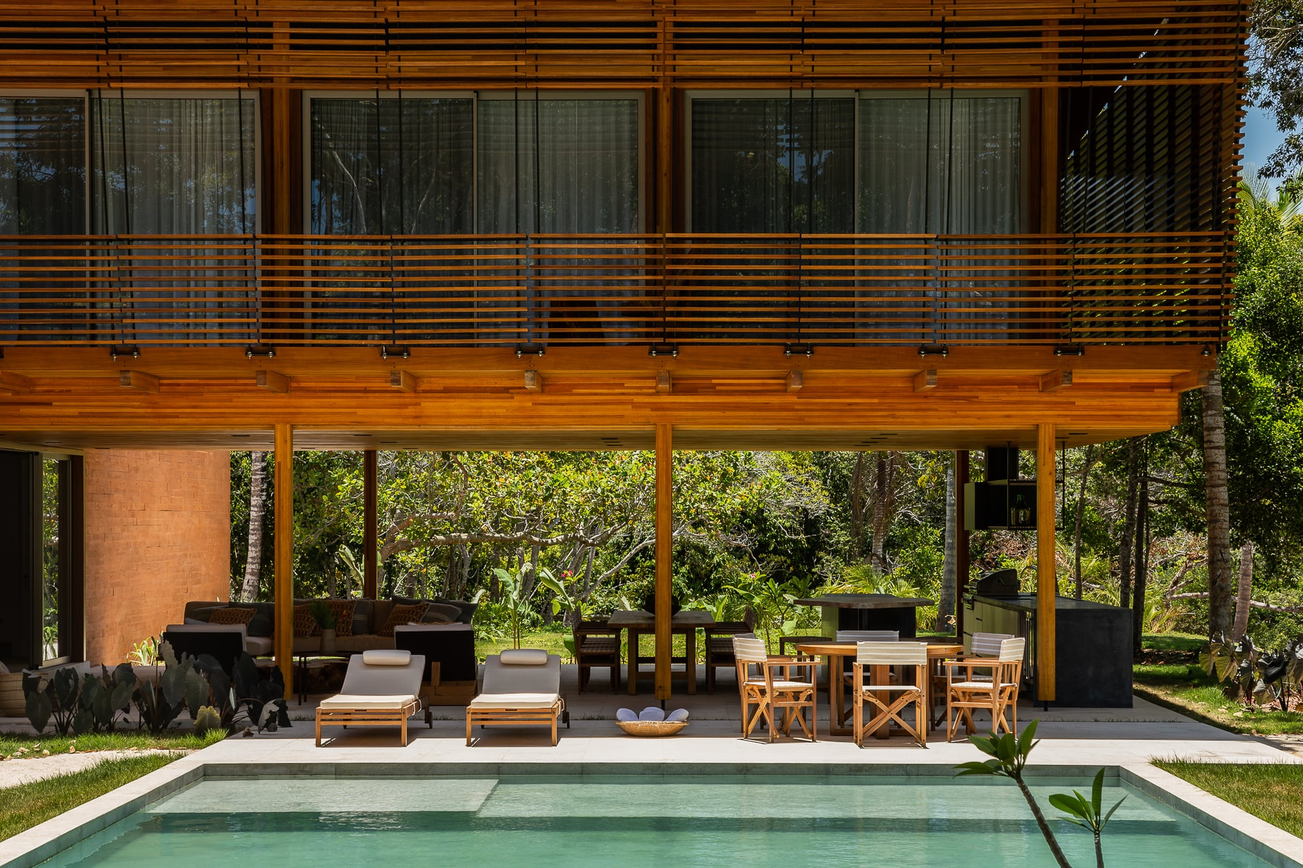
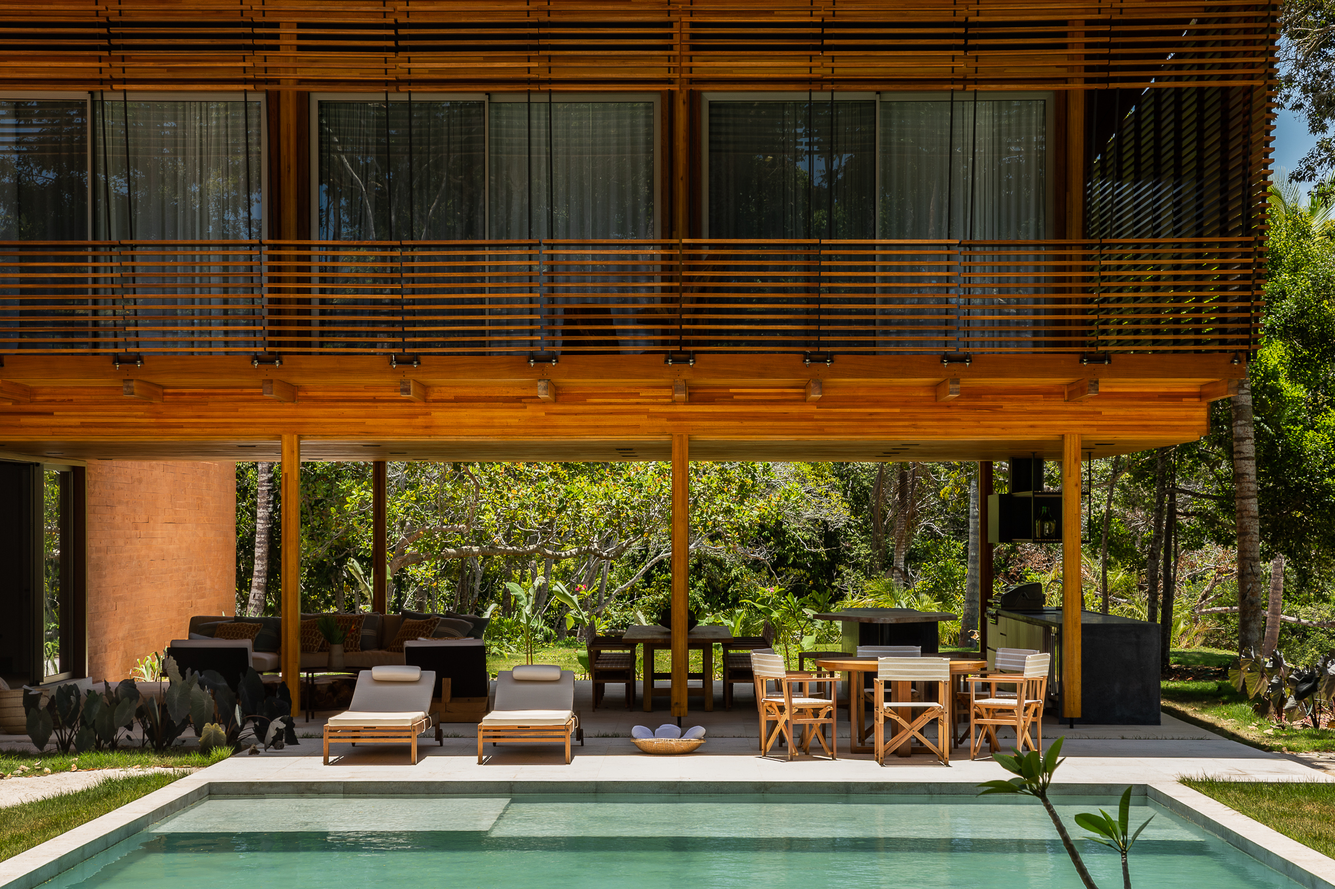
fix(fasano-trancoso): qualidade das fotos full-screen
Recopia fontes originais hi-q (Apresentacao 534KB->1741KB base limpa; gastro 2200->2560px; casa-piscina 2000->2048px). quality 90->95 em todas as Image + next.config qualities inclui 95. Mar/Reserva continuam no teto de fonte 1500px (acervo nao tem maior) — sinalizado ao Enzo.

diff --git a/components/demos/fasano-trancoso/sections/Acomodacoes.tsx b/components/demos/fasano-trancoso/sections/Acomodacoes.tsx
@@ -76,7 +76,7 @@ export function Acomodacoes() {
               alt={a.casaPiscina.alt}
               fill
               loading="eager"
-              quality={90}
+              quality={95}
               sizes="(min-width: 1024px) 1240px, 100vw"
               className="object-cover object-center transition-transform duration-[900ms] ease-out group-hover:scale-[1.03]"
             />
@@ -92,7 +92,7 @@ export function Acomodacoes() {
                 alt={a.bangalo.alt}
                 fill
                 loading="eager"
-                quality={90}
+                quality={95}
                 sizes="(min-width: 1024px) 500px, 100vw"
                 className="object-cover object-center transition-transform duration-[900ms] ease-out group-hover:scale-[1.04]"
               />
@@ -105,7 +105,7 @@ export function Acomodacoes() {
                 alt={a.sala.alt}
                 fill
                 loading="eager"
-                quality={90}
+                quality={95}
                 sizes="(min-width: 1024px) 716px, 100vw"
                 className="object-cover object-center transition-transform duration-[900ms] ease-out group-hover:scale-[1.04]"
               />

diff --git a/components/demos/fasano-trancoso/sections/MarPiscinas.tsx b/components/demos/fasano-trancoso/sections/MarPiscinas.tsx
@@ -20,7 +20,7 @@ export function MarPiscinas() {
           alt={m.photoBig.alt}
           fill
           loading="eager"
-          quality={90}
+          quality={95}
           sizes="100vw"
           className="object-cover object-center"
         />
@@ -102,7 +102,7 @@ export function MarPiscinas() {
               alt={p.alt}
               fill
               loading="eager"
-              quality={90}
+              quality={95}
               sizes="50vw"
               className="object-cover object-center transition-transform duration-[900ms] ease-out group-hover:scale-105"
             />

diff --git a/next.config.ts b/next.config.ts
@@ -4,7 +4,7 @@ const nextConfig: NextConfig = {
   images: {
     // Next 16 introduziu allowlist `qualities`. Default só permite [75].
     // Sem isto, qualquer quality={100} na <Image> é silenciosamente reduzido.
-    qualities: [75, 90, 100],
+    qualities: [75, 90, 95, 100],
     // AVIF: ~50% menor que JPEG na mesma qualidade visual. WebP fallback.
     // Next escolhe automaticamente o melhor formato suportado pelo browser.
     formats: ["image/avif", "image/webp"],

diff --git a/components/demos/fasano-trancoso/sections/Experiencias.tsx b/components/demos/fasano-trancoso/sections/Experiencias.tsx
@@ -73,7 +73,7 @@ export function Experiencias() {
                   alt={c.name}
                   fill
                   loading="eager"
-                  quality={90}
+                  quality={95}
                   sizes="(min-width: 1024px) 289px, 50vw"
                   className="object-cover object-center transition-transform duration-[900ms] ease-out group-hover:scale-[1.06]"
                 />

diff --git a/components/demos/fasano-trancoso/sections/Gastronomia.tsx b/components/demos/fasano-trancoso/sections/Gastronomia.tsx
@@ -75,7 +75,7 @@ export function Gastronomia() {
                 alt={p.alt}
                 fill
                 loading="eager"
-                quality={90}
+                quality={95}
                 sizes="100vw"
                 className="object-cover object-center transition-transform duration-[1100ms] ease-out group-hover:scale-[1.03]"
               />

diff --git a/components/demos/fasano-trancoso/sections/Reserva.tsx b/components/demos/fasano-trancoso/sections/Reserva.tsx
@@ -31,7 +31,7 @@ export function Reserva() {
           alt={r.photo.alt}
           fill
           loading="eager"
-          quality={90}
+          quality={95}
           sizes="100vw"
           className="object-cover object-center"
         />

diff --git a/components/demos/fasano-trancoso/sections/Apresentacao.tsx b/components/demos/fasano-trancoso/sections/Apresentacao.tsx
@@ -32,7 +32,7 @@ export function Apresentacao() {
           alt={a.alt}
           fill
           loading="eager"
-          quality={90}
+          quality={95}
           sizes="100vw"
           className="object-cover object-center"
         />

diff --git a/components/demos/fasano-trancoso/sections/Hero.tsx b/components/demos/fasano-trancoso/sections/Hero.tsx
@@ -34,7 +34,7 @@ export function Hero() {
           fill
           priority
           loading="eager"
-          quality={90}
+          quality={95}
           sizes="100vw"
           className="object-cover object-center"
         />
